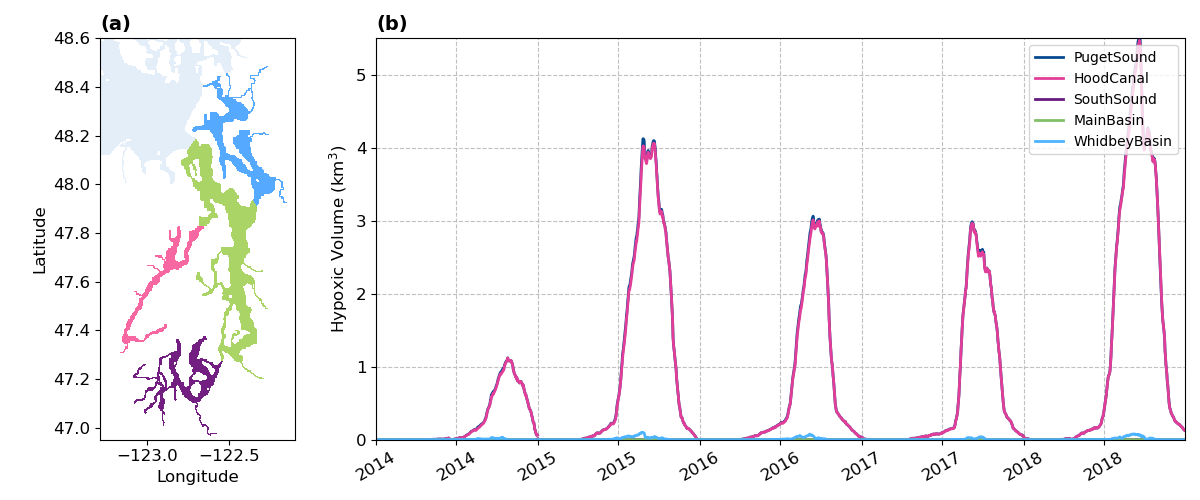
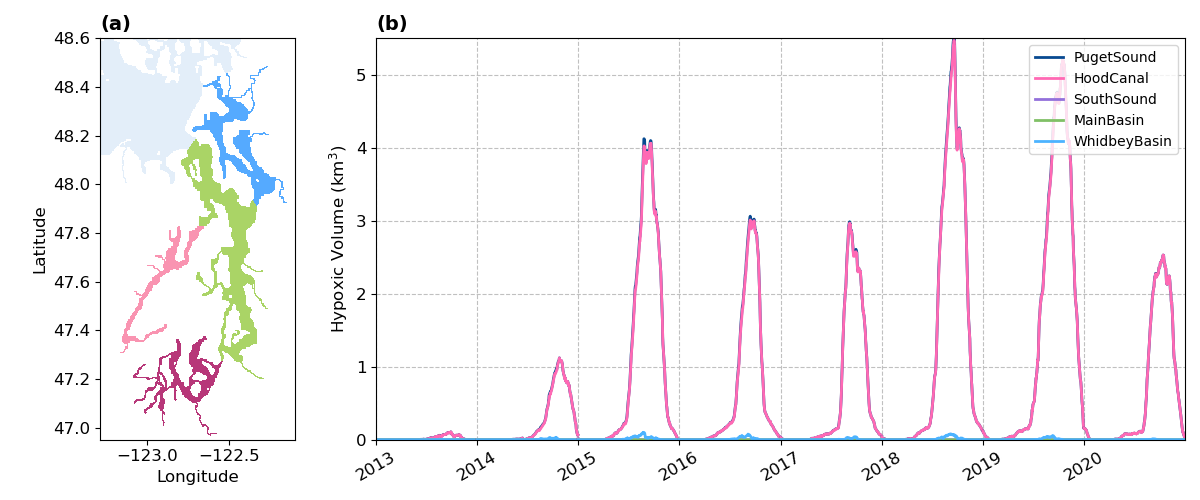
edit hypvol scripts to include 2013 and 2014

diff --git a/hypvol_for_intrmdl_cmprsn/hyparea_subbasin_comparison.py b/hypvol_for_intrmdl_cmprsn/hyparea_subbasin_comparison.py
@@ -152,7 +152,7 @@ ax0.pcolormesh(plon, plat, np.where(mask_hc == 0, np.nan, mask_hc),
             vmin=0, vmax=2.5, cmap='RdPu' )
 # South Sound
 ax0.pcolormesh(plon, plat, np.where(mask_ss == 0, np.nan, mask_ss),
-              vmin=0, vmax=2, cmap='magma' )
+              vmin=0, vmax=2, cmap='Purples' )
 # Main Basin
 ax0.pcolormesh(plon, plat, np.where(mask_mb == 0, np.nan, mask_mb),
               vmin=0, vmax=1.5, cmap='summer' )

diff --git a/hypvol_for_intrmdl_cmprsn/hypvol_subbasin_comparison.py b/hypvol_for_intrmdl_cmprsn/hypvol_subbasin_comparison.py
@@ -173,7 +173,7 @@ ax0.pcolormesh(plon, plat, np.where(mask_hc == 0, np.nan, mask_hc),
             vmin=0, vmax=2.5, cmap='RdPu' )
 # South Sound
 ax0.pcolormesh(plon, plat, np.where(mask_ss == 0, np.nan, mask_ss),
-              vmin=0, vmax=2, cmap='magma' )
+              vmin=0, vmax=2, cmap='Purples' )
 # Main Basin
 ax0.pcolormesh(plon, plat, np.where(mask_mb == 0, np.nan, mask_mb),
               vmin=0, vmax=1.5, cmap='summer' )
